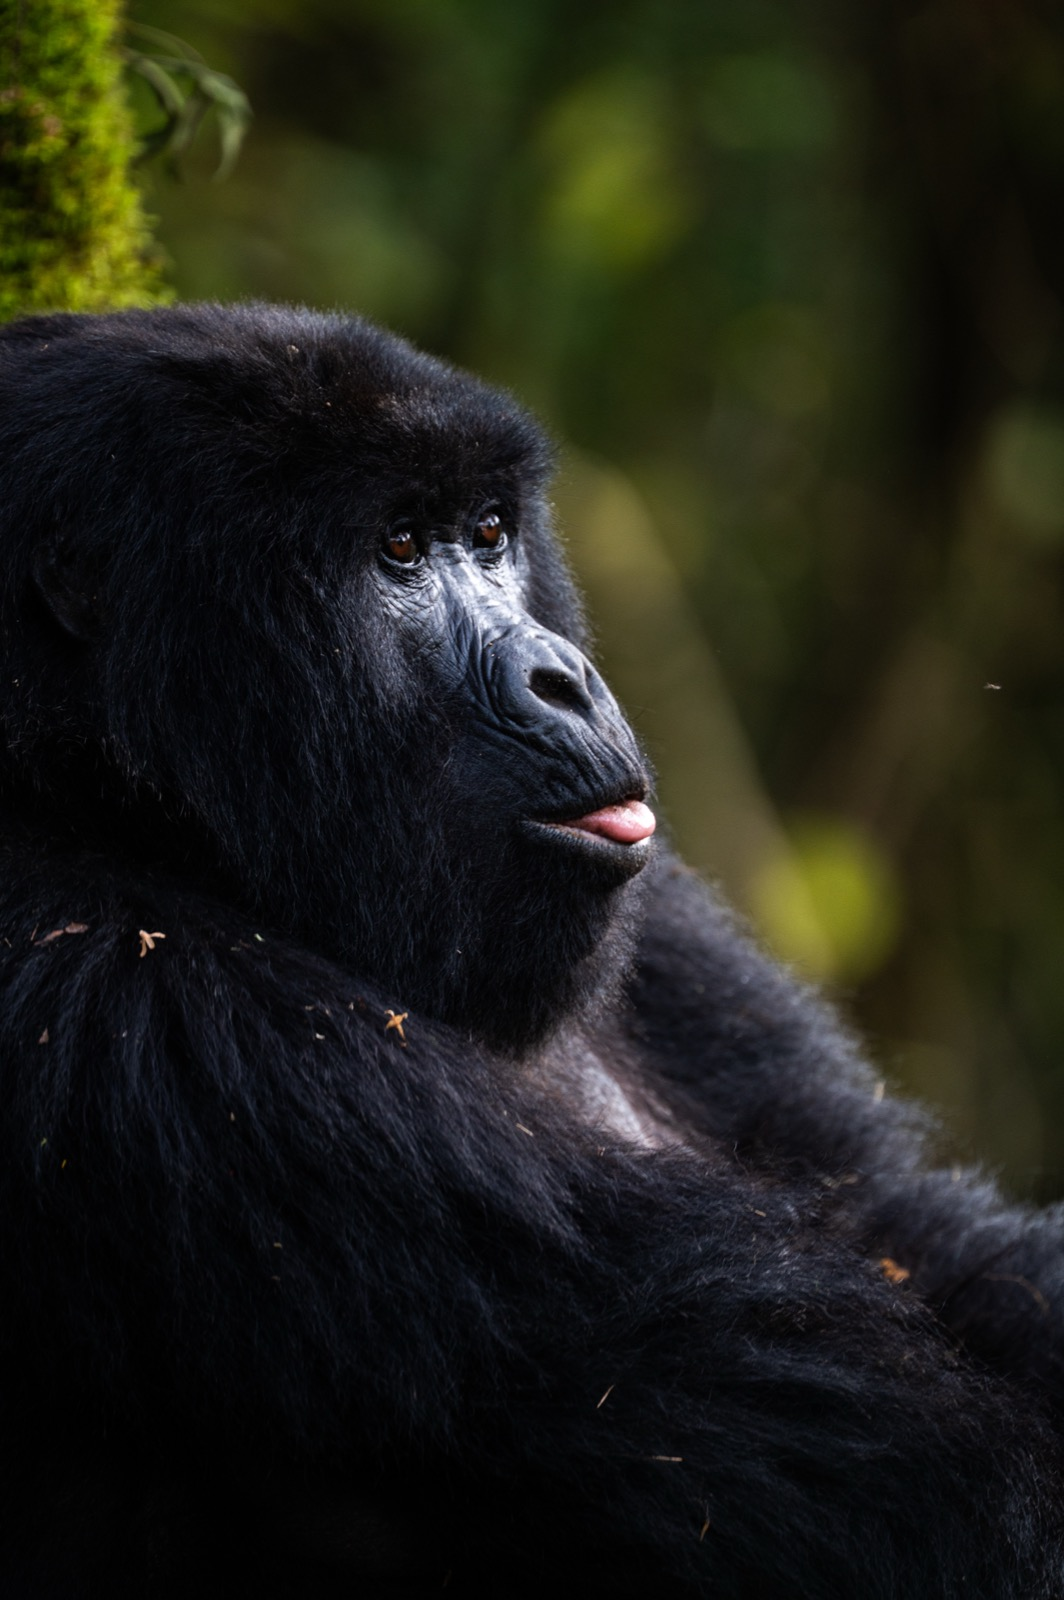
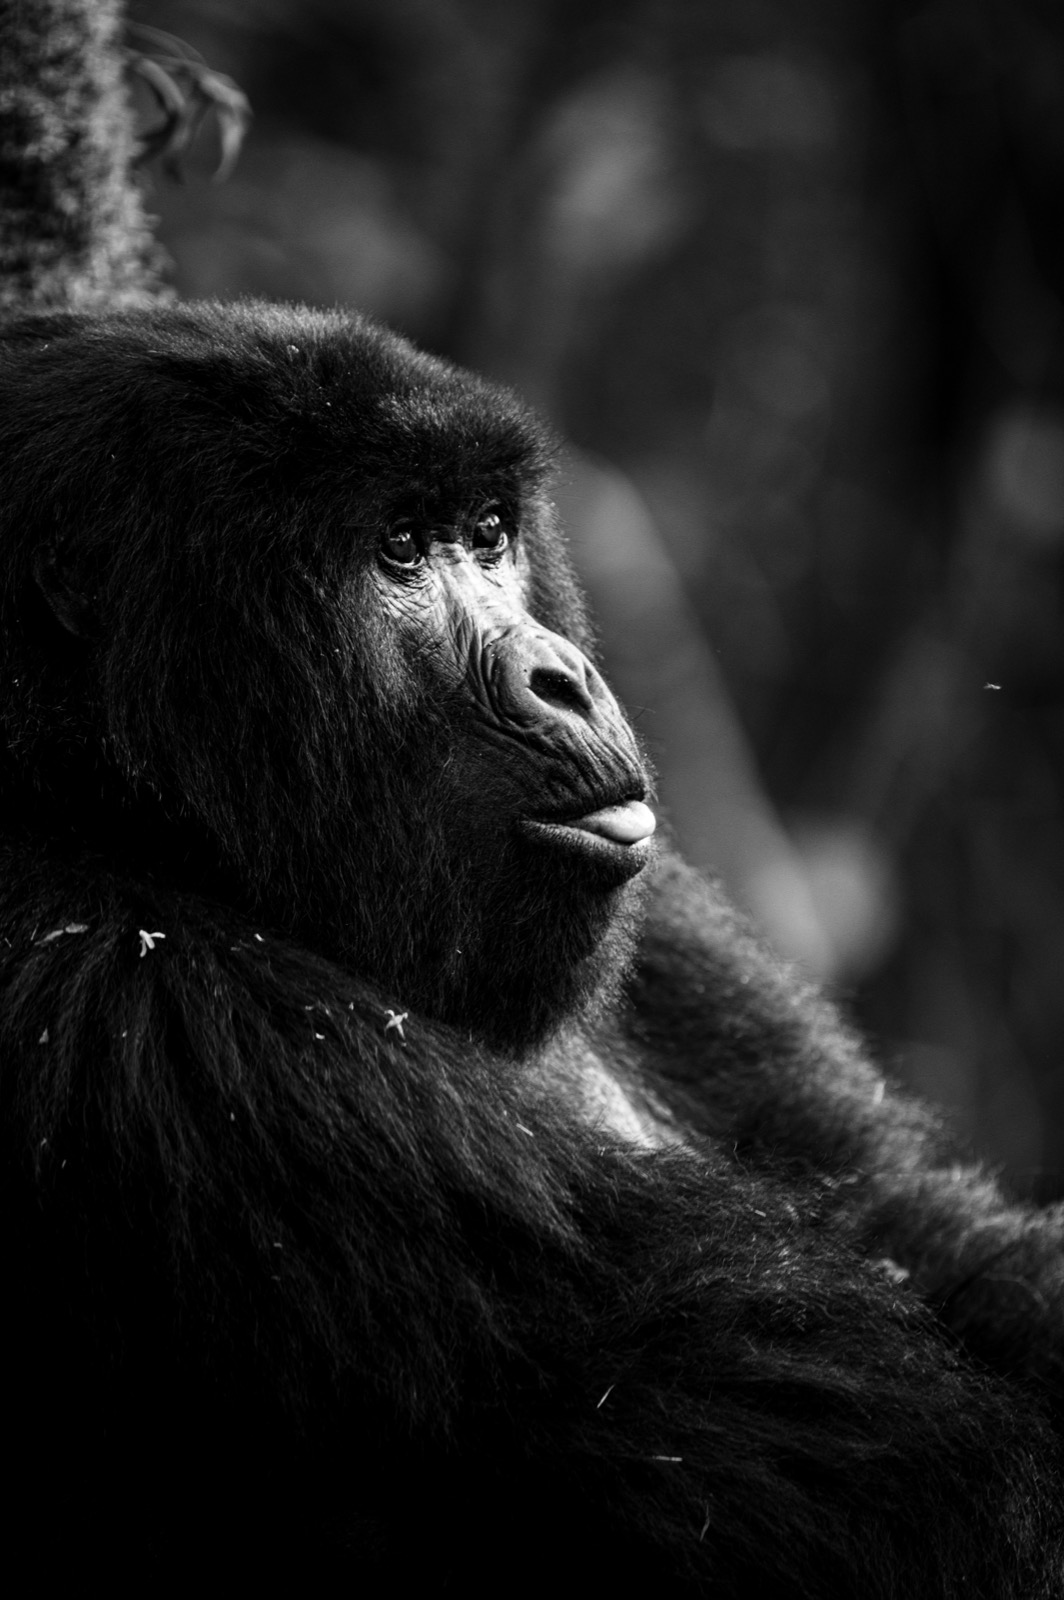
Replace Kiss or Slap with new version, add Joke's on You

diff --git a/portfolio.html b/portfolio.html
@@ -279,7 +279,7 @@
         <div class="section-card-inner">
           <p class="section-label">Collection</p>
           <h2 class="section-name">Gallery Work</h2>
-          <p class="section-count">Swiss Photo Club — 6 photographs</p>
+          <p class="section-count">Swiss Photo Club — 7 photographs</p>
           <div class="section-thumbs">
             <img class="section-thumb" src="spc-calm-before-storm.jpg" alt="" />
             <img class="section-thumb" src="spc-kiss-or-slap.jpg" alt="" />
@@ -355,6 +355,7 @@
         title: 'Gallery Work — Swiss Photo Club',
         photos: [
           { src: 'spc-calm-before-storm.jpg',  caption: 'Calm Before the Storm' },
+          { src: 'spc-jokes-on-you.jpg',       caption: "Joke's on You" },
           { src: 'spc-kiss-or-slap.jpg',       caption: 'Kiss or Slap' },
           { src: 'spc-one-v-one.jpg',          caption: 'One v One' },
           { src: 'spc-resembling-truth.jpg',   caption: 'Resembling Truth' },
